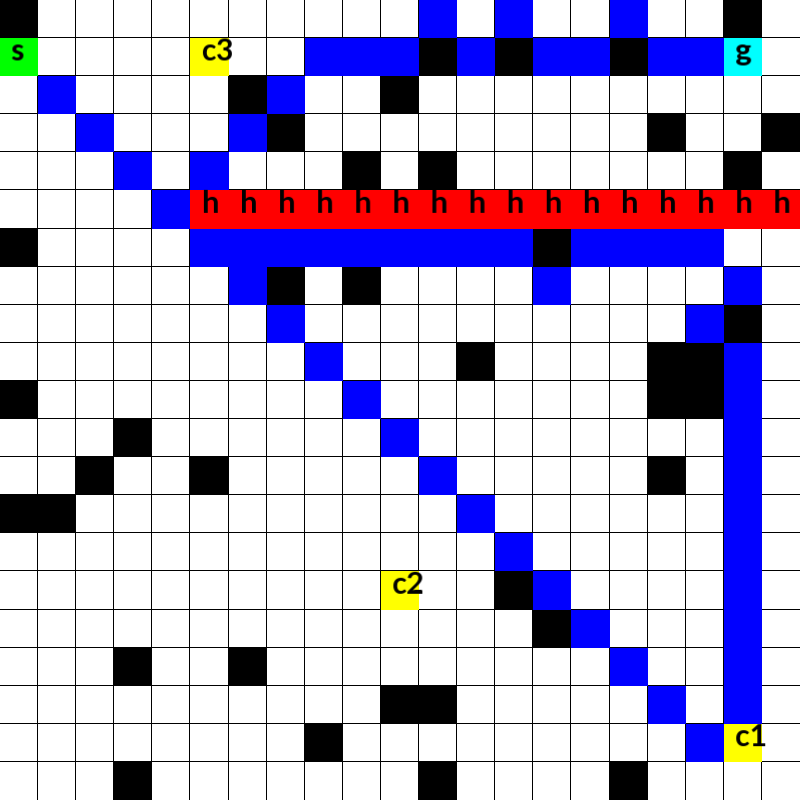
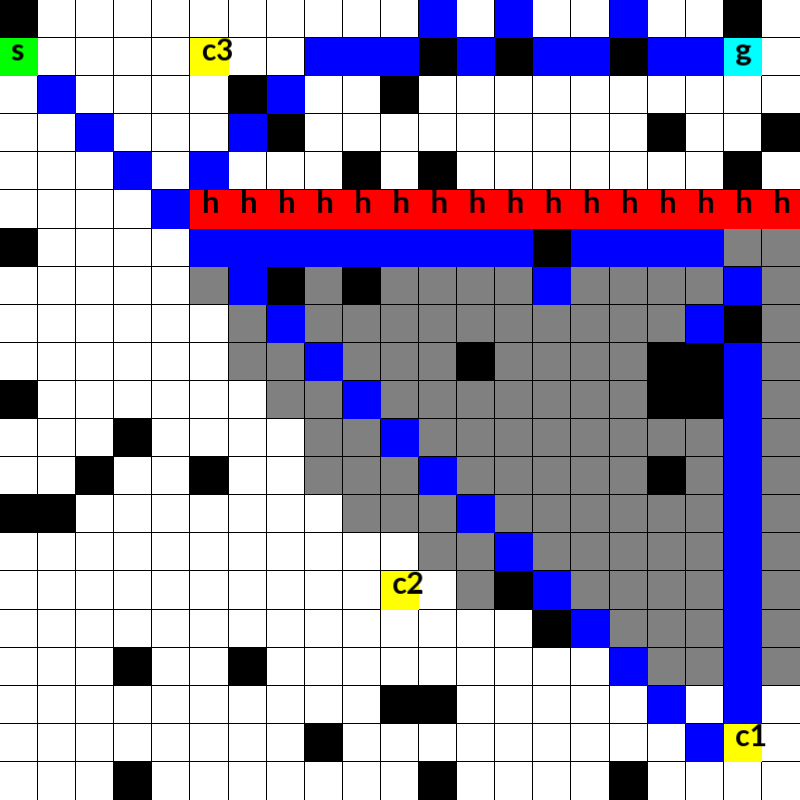
Added visualization for explored states (in gray)

Changed region(s): [[0.2188, 0.2812, 1.0, 0.875]]

diff --git a/LTLStuff/TEGProblem.cpp b/LTLStuff/TEGProblem.cpp
@@ -19,6 +19,8 @@ TEGProblem::TEGProblem(const string formula_str,
     product_manager_(make_shared<ProductManager>(domain_manager_, dfa_manager_))
     { 
 
+    domain_->mark_all_states_as_unexplored();
+
     // Check if the start state is valid.
     if (!domain_->is_valid_state(start_domain_state_)) {
         cerr << "ERROR: Invalid start state in the task domain!" << endl;
@@ -94,6 +96,7 @@ void TEGProblem::solve_with_full_graph() {
     while (!queue.empty()) {
         ProductState current_state = queue.front();
         queue.pop_front();
+        domain_->mark_as_explored(current_state.get_domain_state());
 
         for (const auto& transition : product_manager_->get_transitions(current_state)) {
             // Get the product state where this transition leads. 
@@ -206,6 +209,7 @@ void TEGProblem::realize_dfa_trace(shared_ptr<DFANode>& endTraceNode) {
         ProductState current_state = current_state_pair.second;
         // cout << "Popped the state " << current_state << " with score " << current_state_pair.first << endl;
         queue.pop();
+        domain_->mark_as_explored(current_state.get_domain_state());
 
         // Check if state was expanded?
         // If not, then generate successors for this state!

diff --git a/GridWorld/GridWorldDomain.cpp b/GridWorld/GridWorldDomain.cpp
@@ -23,6 +23,8 @@ GridWorldDomain::GridWorldDomain(size_t R, size_t C,
         }
         obstacle_matrix_ = obstacle_matrix;
     }
+
+    mark_all_states_as_unexplored();
 }
 
 // Define a static map.
@@ -32,6 +34,23 @@ bool GridWorldDomain::is_obstacle(const GridState& state) const {
     size_t x = state.x();
     size_t y = state.y();
     return obstacle_matrix_[x][y];
+}
+
+bool GridWorldDomain::was_explored(const GridState& state) const {
+    size_t x = state.x();
+    size_t y = state.y();
+    return exploration_matrix_[x][y];
+}
+
+void GridWorldDomain::mark_as_explored(const GridState& state) {
+    size_t x = state.x();
+    size_t y = state.y();
+    exploration_matrix_[x][y] = true;
+}
+
+void GridWorldDomain::mark_all_states_as_unexplored() {
+    exploration_matrix_.clear();
+    exploration_matrix_.resize(R_, vector<bool>(C_, false));
 }
 
 bool GridWorldDomain::is_valid_state(const GridState& state) const {

diff --git a/GridWorld/GridWorldPlotter.cpp b/GridWorld/GridWorldPlotter.cpp
@@ -35,6 +35,8 @@ void GridWorldPlotter::visualize_path(const TEGProblem& problem) {
     // Clear the renderTexture
     renderTexture.clear(sf::Color::White);
 
+    sf::Color gray(128, 128, 128);
+
     // Draw the grid and obstacles to renderTexture
     for (size_t i = 0; i < grid_size_; ++i) {
         for (size_t j = 0; j < grid_size_; ++j) {
@@ -47,6 +49,8 @@ void GridWorldPlotter::visualize_path(const TEGProblem& problem) {
 
             if (grid_domain_->is_obstacle(curr_state)) {
                 cell.setFillColor(sf::Color::Black);
+            } else if (grid_domain_->was_explored(curr_state)) {
+                cell.setFillColor(gray);
             } else {
                 cell.setFillColor(sf::Color::White);
             }

diff --git a/GridWorld/GridWorldDomain.h b/GridWorld/GridWorldDomain.h
@@ -47,6 +47,11 @@ public:
     void create_corridor_obstacle_matrix();
     void create_random_obstacle_matrix(double density);
 
+    bool was_explored(const GridState& state) const;
+    void mark_as_explored(const GridState& state);
+
+    void mark_all_states_as_unexplored();
+
 private:
     void initializeDefaultActions();
 
@@ -56,6 +61,7 @@ private:
     static map<GridState, vector<SkillAction>> skill_actions_;
 
     vector<vector<bool>> obstacle_matrix_;
+    vector<vector<bool>> exploration_matrix_;
     vector<GridState> all_domain_states_;
 };
 
